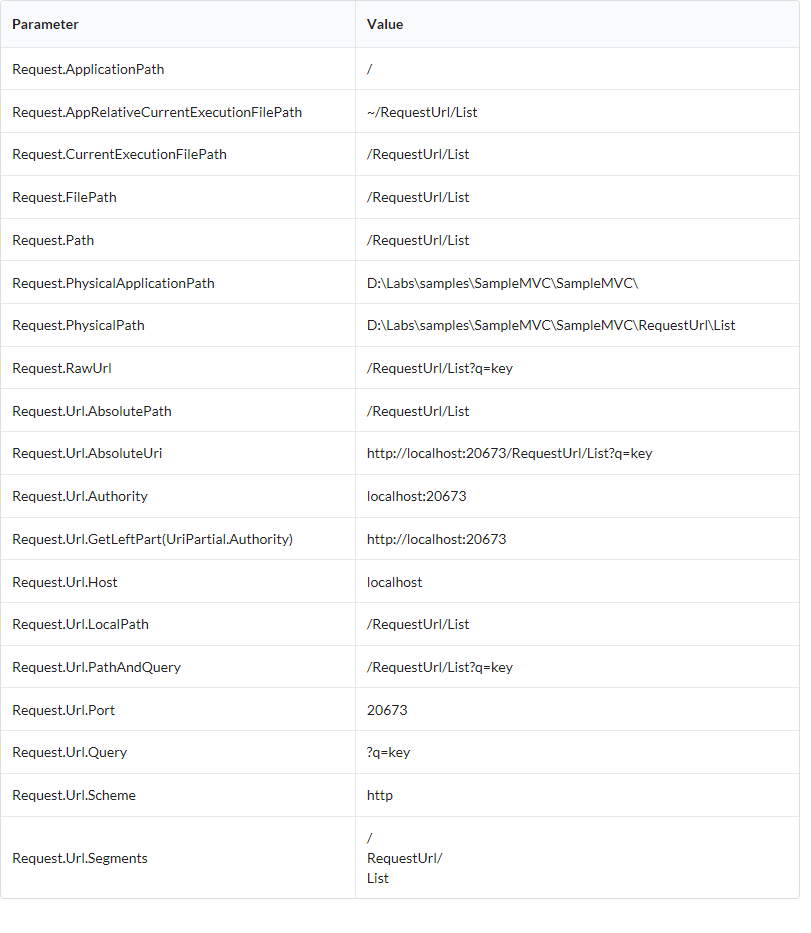
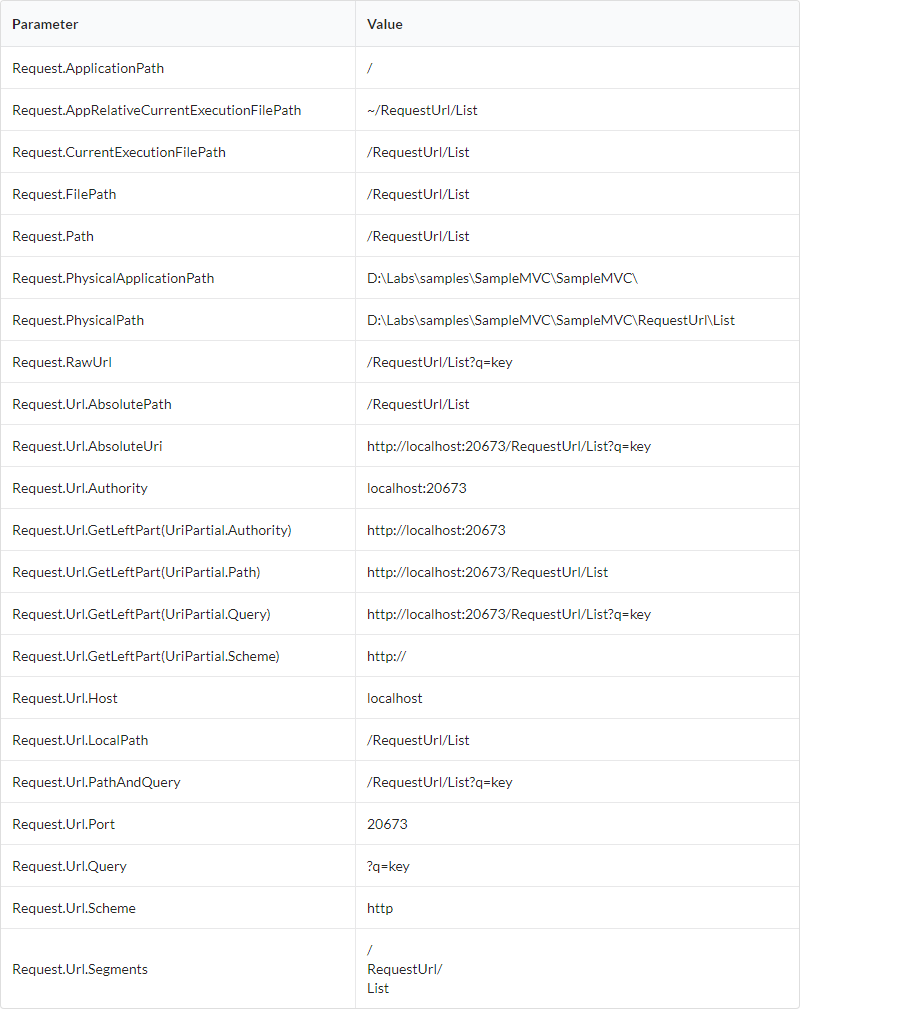
add Request.Url.GetLeftPart other parts

diff --git a/SampleMVC/SampleMVC/Controllers/RequestUrlController.cs b/SampleMVC/SampleMVC/Controllers/RequestUrlController.cs
@@ -10,14 +10,21 @@ namespace SampleMVC.Controllers
         // GET: RequestUrl
         public ActionResult List()
         {
-            var authority = this.Request.Url.GetLeftPart(UriPartial.Authority);
+            var uriPartialAuthority = this.Request.Url.GetLeftPart(UriPartial.Authority);
+            var uriPartialPath = this.Request.Url.GetLeftPart(UriPartial.Path);
+            var uriPartialQuery = this.Request.Url.GetLeftPart(UriPartial.Query);
+            var uriPartialScheme = this.Request.Url.GetLeftPart(UriPartial.Scheme);
+
             var appRelativeCurrentExecutionFilePath = this.Request.AppRelativeCurrentExecutionFilePath;
 
             this.ViewBag.Urls =
                 new Dictionary<string, string>
                     {
                         ["Request.RawUrl"] = this.Request.RawUrl,
-                        ["Request.Url.GetLeftPart(UriPartial.Authority)"] = authority,
+                        ["Request.Url.GetLeftPart(UriPartial.Authority)"] = uriPartialAuthority,
+                        ["Request.Url.GetLeftPart(UriPartial.Path)"] = uriPartialPath,
+                        ["Request.Url.GetLeftPart(UriPartial.Query)"] = uriPartialQuery,
+                        ["Request.Url.GetLeftPart(UriPartial.Scheme)"] = uriPartialScheme,
                         ["Request.Path"] = this.Request.Path,
                         ["Request.PhysicalPath"] = this.Request.PhysicalPath,
                         ["Request.AppRelativeCurrentExecutionFilePath"] = appRelativeCurrentExecutionFilePath,
